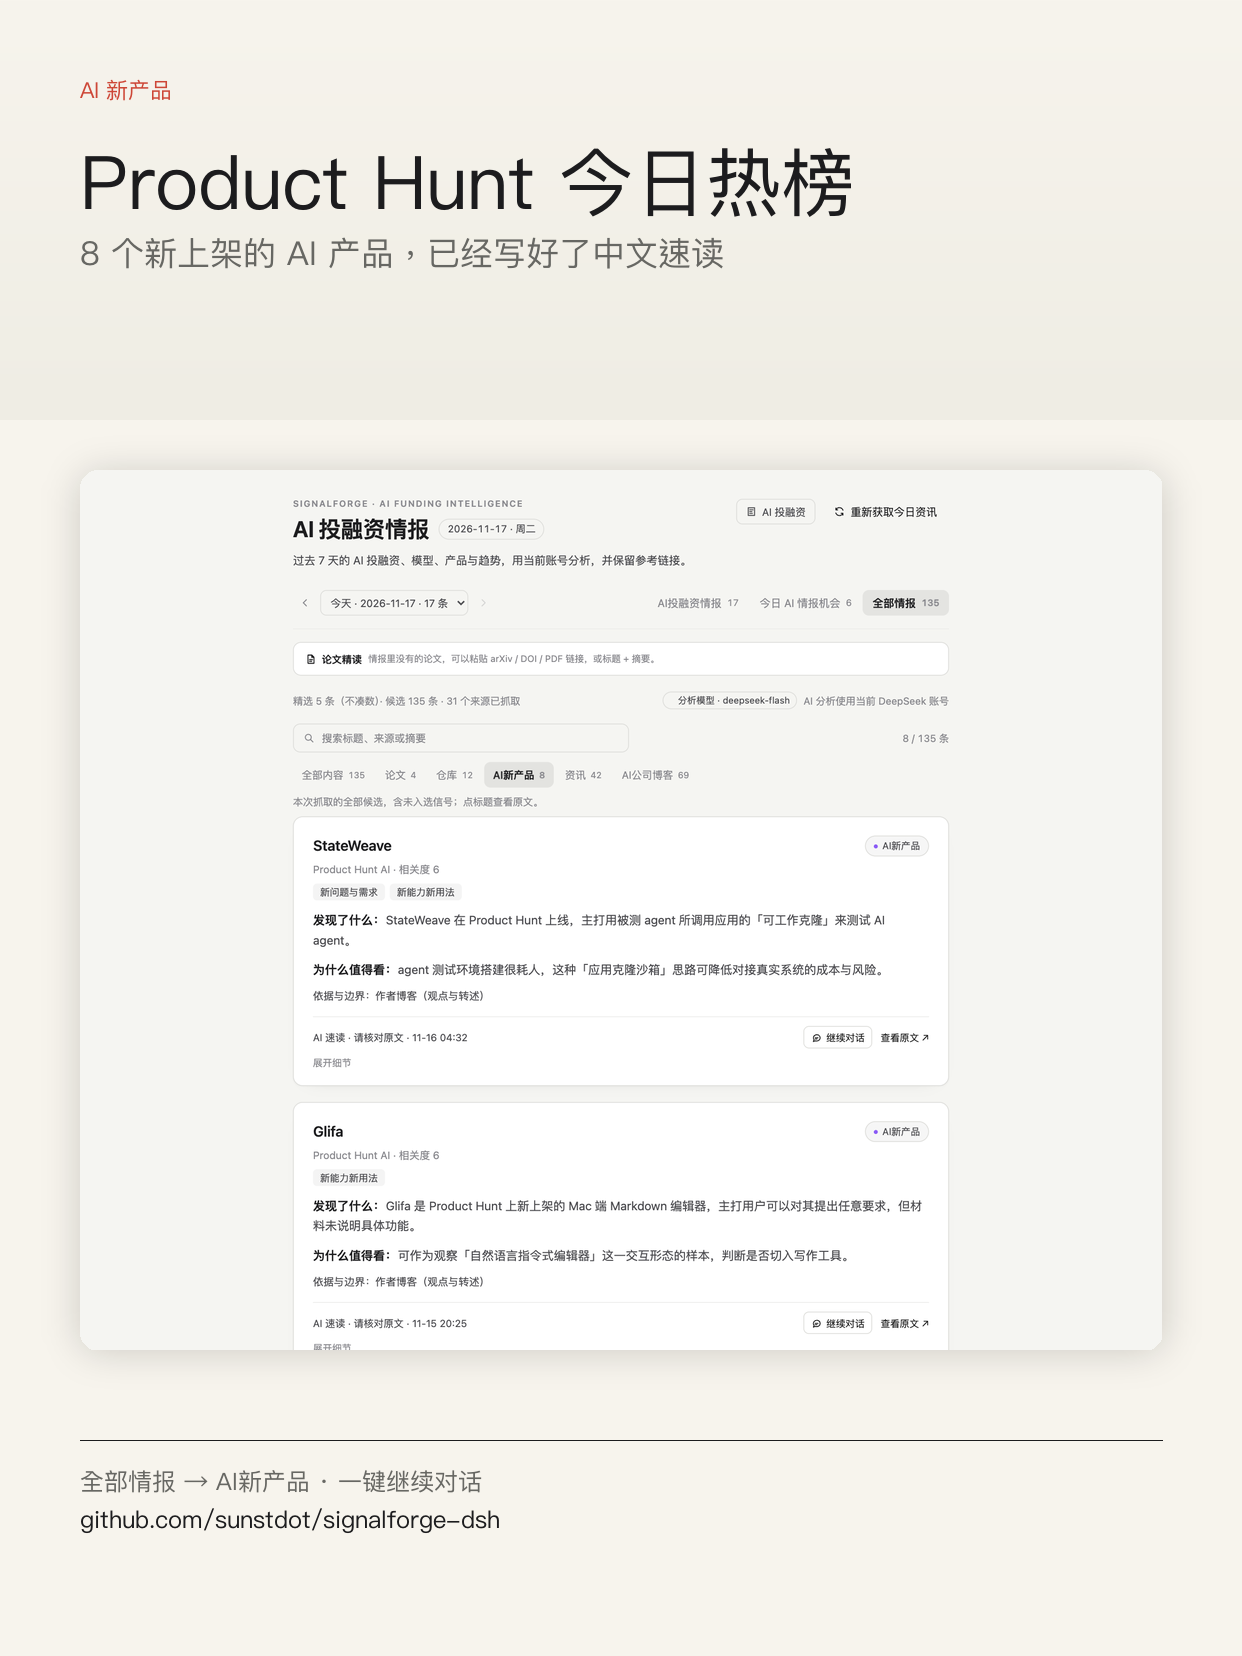
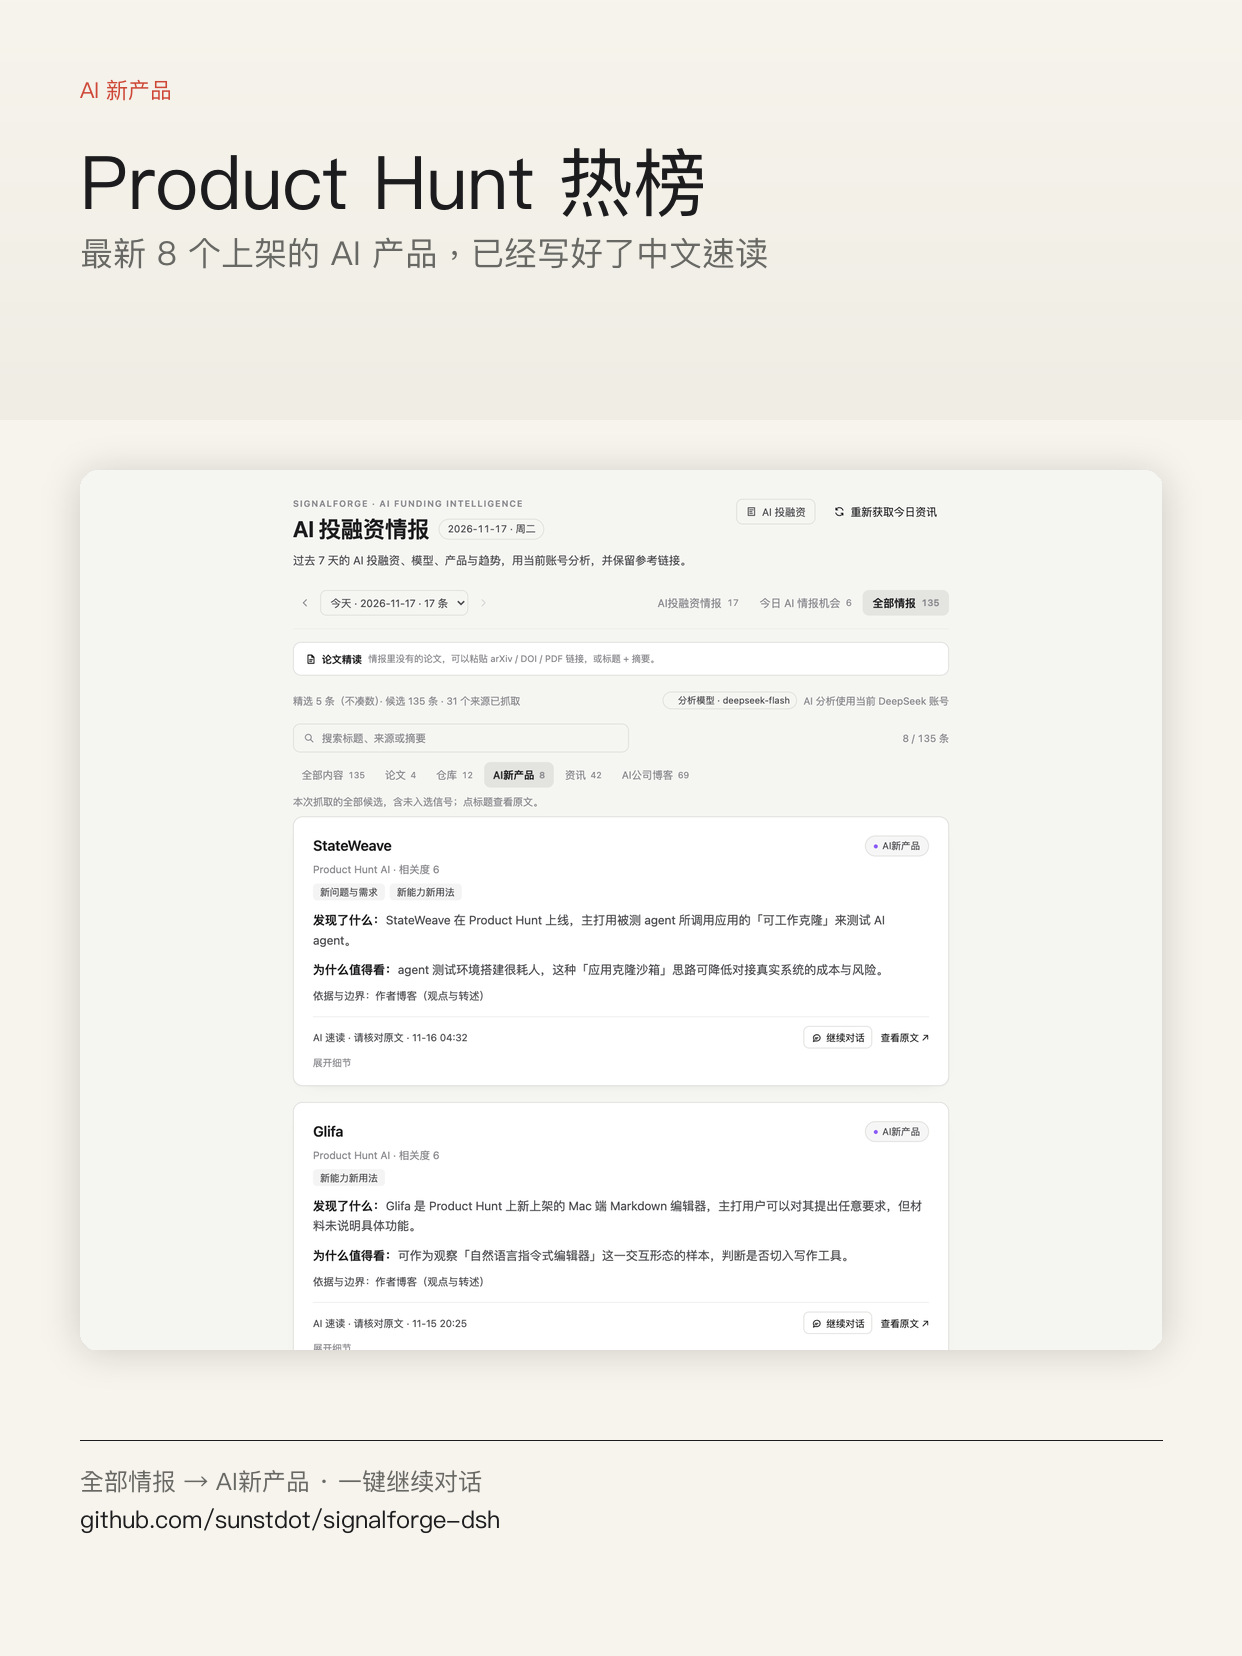
dsh-signalforge v0.2.2

Changed region(s): [[0.0612, 0.0924, 0.7037, 0.1848]]

diff --git a/docs/launch/launch-copy.md b/docs/launch/launch-copy.md
@@ -85,7 +85,7 @@ github.com/sunstdot/signalforge-dsh
 日期 / 模型 / 方向 / 核心变化，不写「更强了」这种空话。
 
 🚀 **值得关注的新产品表**
-Product Hunt 今日热榜，8 个 AI 新产品，每个都有中文速读。
+Product Hunt 热榜，8 个 AI 新产品，每个都有中文速读。
 
 📈 **3–5 个趋势信号**
 不是复述新闻，而是：判断 + 本周证据 + so what + 反证/边界。
